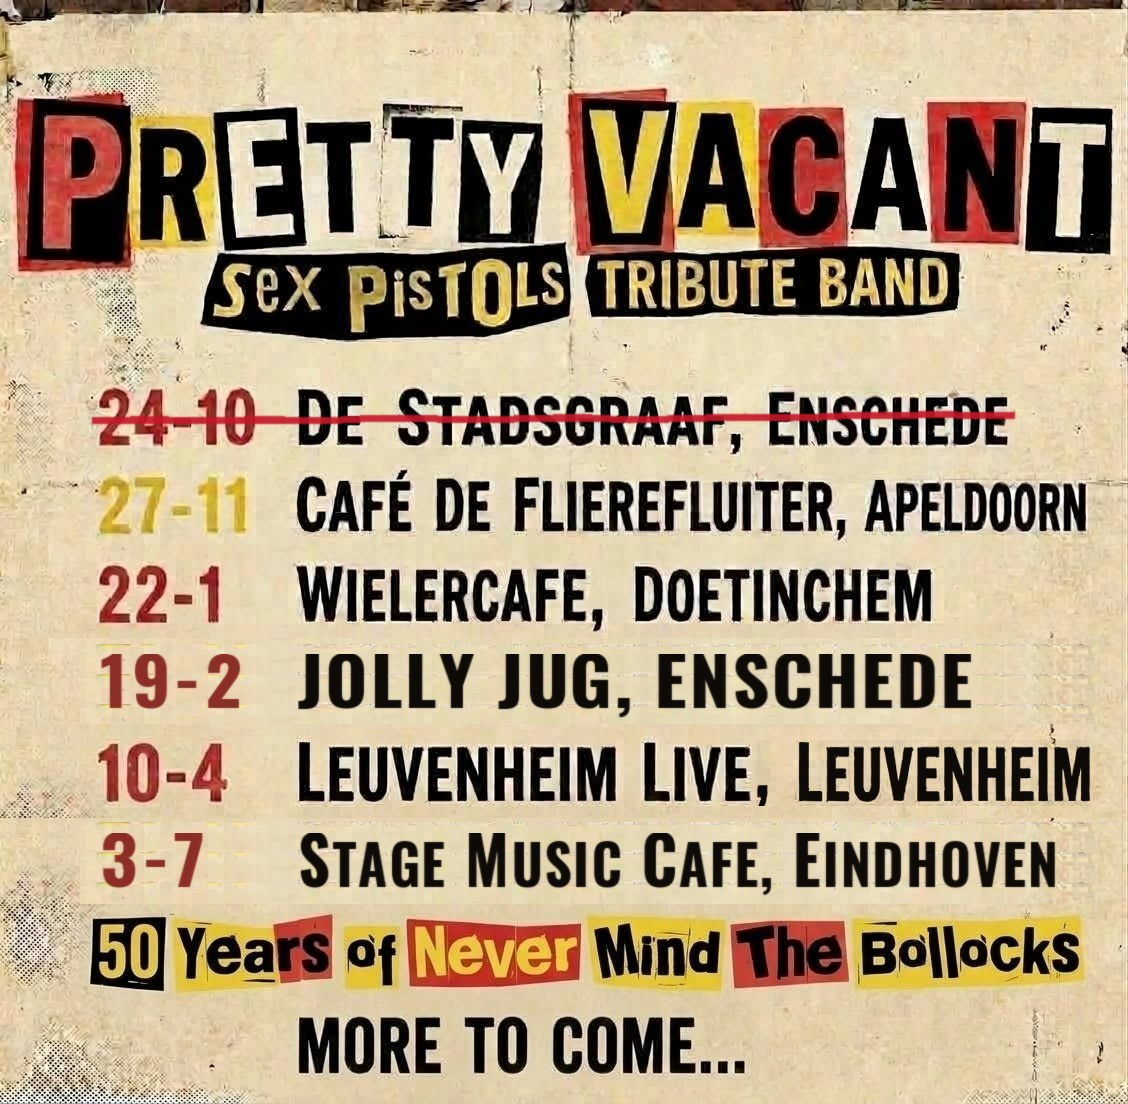
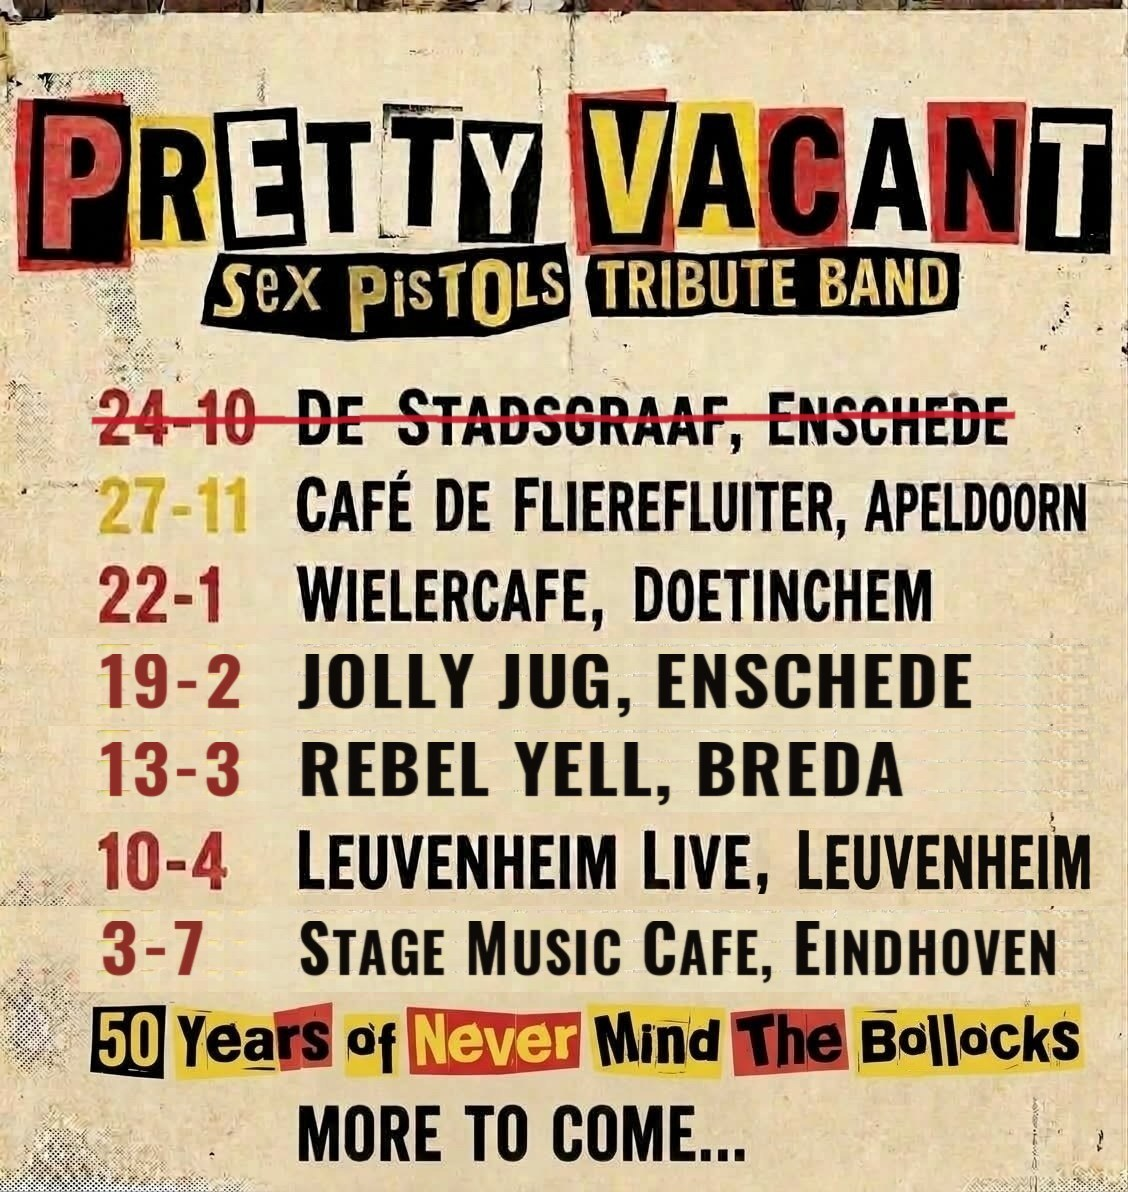
Optreden Rebel Yell Breda (13 maart 2027) gaat toch door: terug op site en poster
Claude-Session: https://claude.ai/code/session_01EPF2kdttnysZsggby33VjA

diff --git a/index.html b/index.html
@@ -48,7 +48,7 @@
 <link rel="preconnect" href="https://fonts.googleapis.com">
 <link rel="preconnect" href="https://fonts.gstatic.com" crossorigin>
 <link rel="stylesheet" href="https://fonts.googleapis.com/css2?family=Anton&family=Archivo:wght@400;600;800&family=Special+Elite&family=Tinos:wght@400;700&display=swap">
-<link rel="stylesheet" href="style.css?v=20261105a">
+<link rel="stylesheet" href="style.css?v=20261104a">
 </head>
 <body>
 
@@ -116,7 +116,7 @@
       </div>
       <figure class="tourposter">
         <button type="button" id="poster-knop" data-ta="aria-label:tour.poster" aria-label="Vergroot de tourposter">
-          <img src="img/tourposter.jpg?v=20261105a" alt="Tourposter Pretty Vacant: 24-10 De Stadsgraaf Enschede, 27-11 Café De Flierefluiter Apeldoorn, 22-1 Wielercafé Doetinchem, 19-2 Jolly Jug Enschede, 10-4 Leuvenheim Live Leuvenheim, 3-7 Stage Music Cafe Eindhoven" width="1128" height="1104" loading="lazy">
+          <img src="img/tourposter.jpg?v=20261104a" alt="Tourposter Pretty Vacant: 24-10 De Stadsgraaf Enschede, 27-11 Café De Flierefluiter Apeldoorn, 22-1 Wielercafé Doetinchem, 19-2 Jolly Jug Enschede, 13-3 Rebel Yell Breda, 10-4 Leuvenheim Live Leuvenheim, 3-7 Stage Music Cafe Eindhoven" width="1128" height="1192" loading="lazy">
         </button>
       </figure>
     </div>
@@ -189,7 +189,7 @@
   <p id="lichtbak-tekst"></p>
 </dialog>
 
-<script src="gegevens.js?v=20261105a"></script>
-<script src="site.js?v=20261105a"></script>
+<script src="gegevens.js?v=20261104a"></script>
+<script src="site.js?v=20261104a"></script>
 </body>
 </html>

diff --git a/gegevens.js b/gegevens.js
@@ -48,6 +48,7 @@ const TOUR = [
   { datum: '2026-11-27', tijd: '21:00', zaal: 'Café De Flierefluiter', plaats: 'Apeldoorn', status: 'gratis' },
   { datum: '2027-01-22', zaal: 'Wielercafé', plaats: 'Doetinchem', status: 'gratis' },
   { datum: '2027-02-19', zaal: 'Jolly Jug', plaats: 'Enschede', status: 'gratis' },
+  { datum: '2027-03-13', tijd: '21:00', zaal: 'Rebel Yell', plaats: 'Breda', status: 'gratis' },
   { datum: '2027-04-10', zaal: 'Leuvenheim Live', plaats: 'Leuvenheim', status: 'gratis' },
   { datum: '2027-07-03', tijd: '21:00', zaal: 'Stage Music Cafe', plaats: 'Eindhoven', status: 'gratis' },
   // Nieuw optreden? Kopieer een regel hierboven en pas hem aan, bijvoorbeeld:
